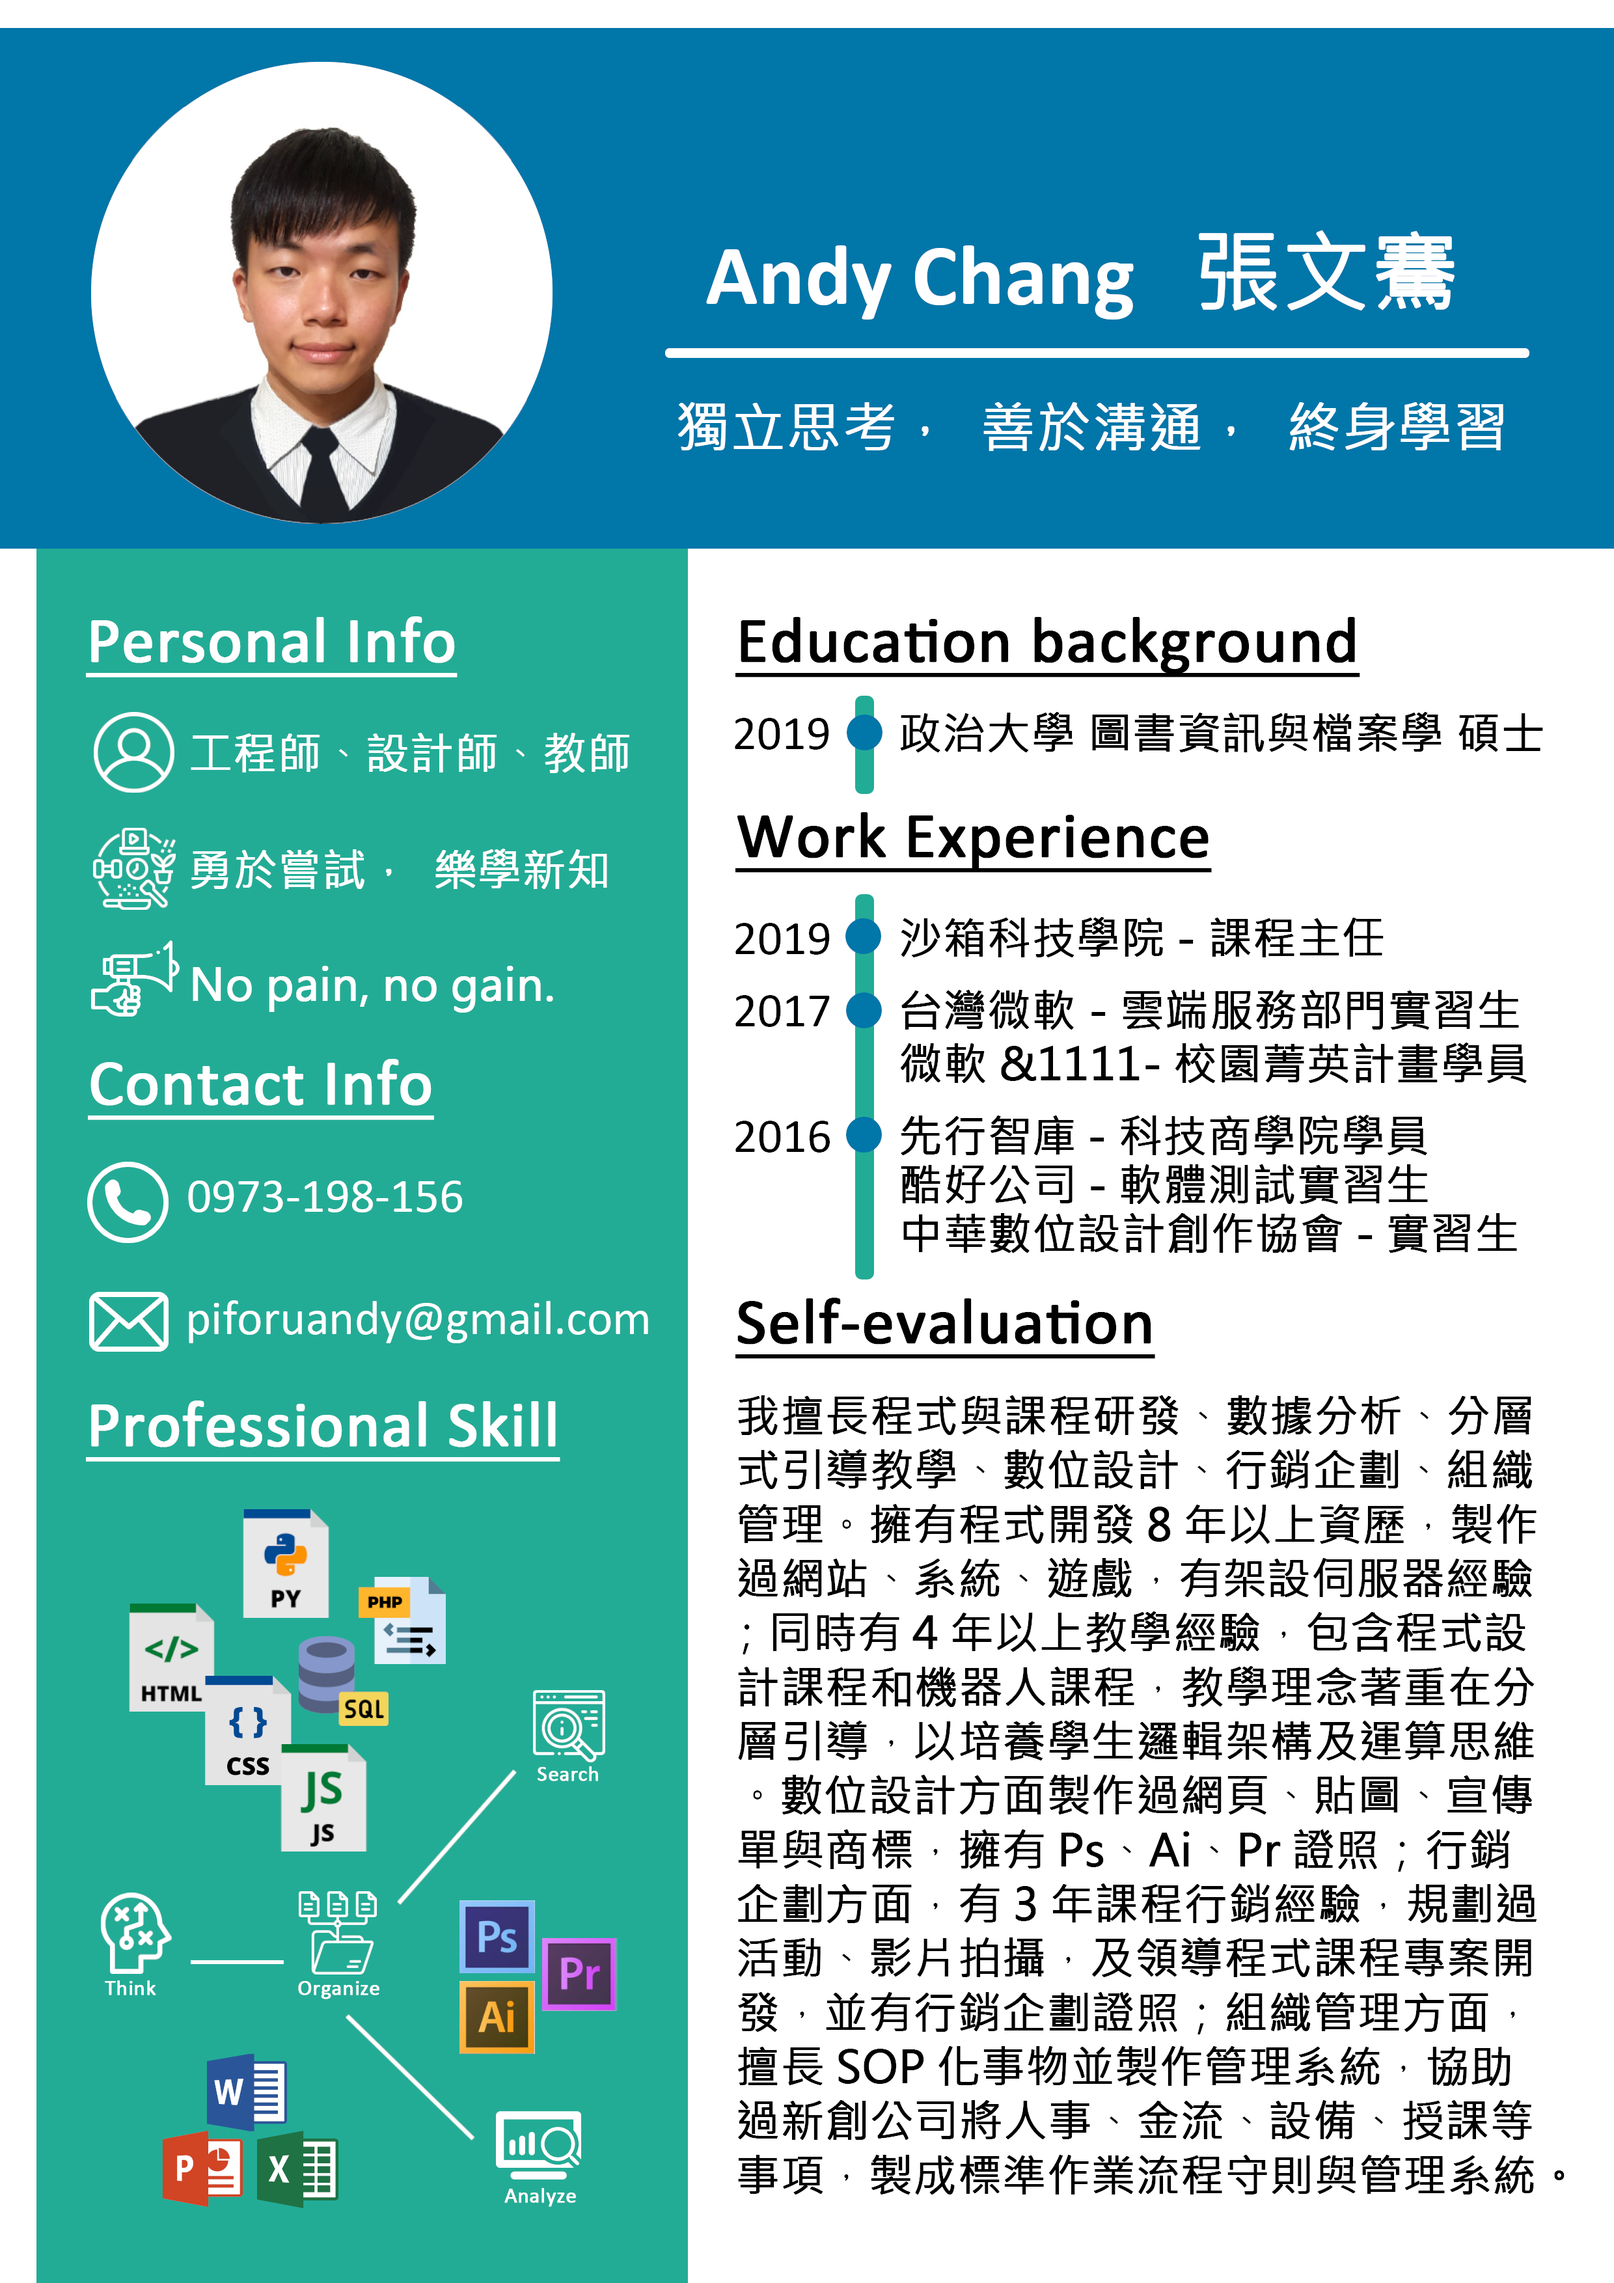
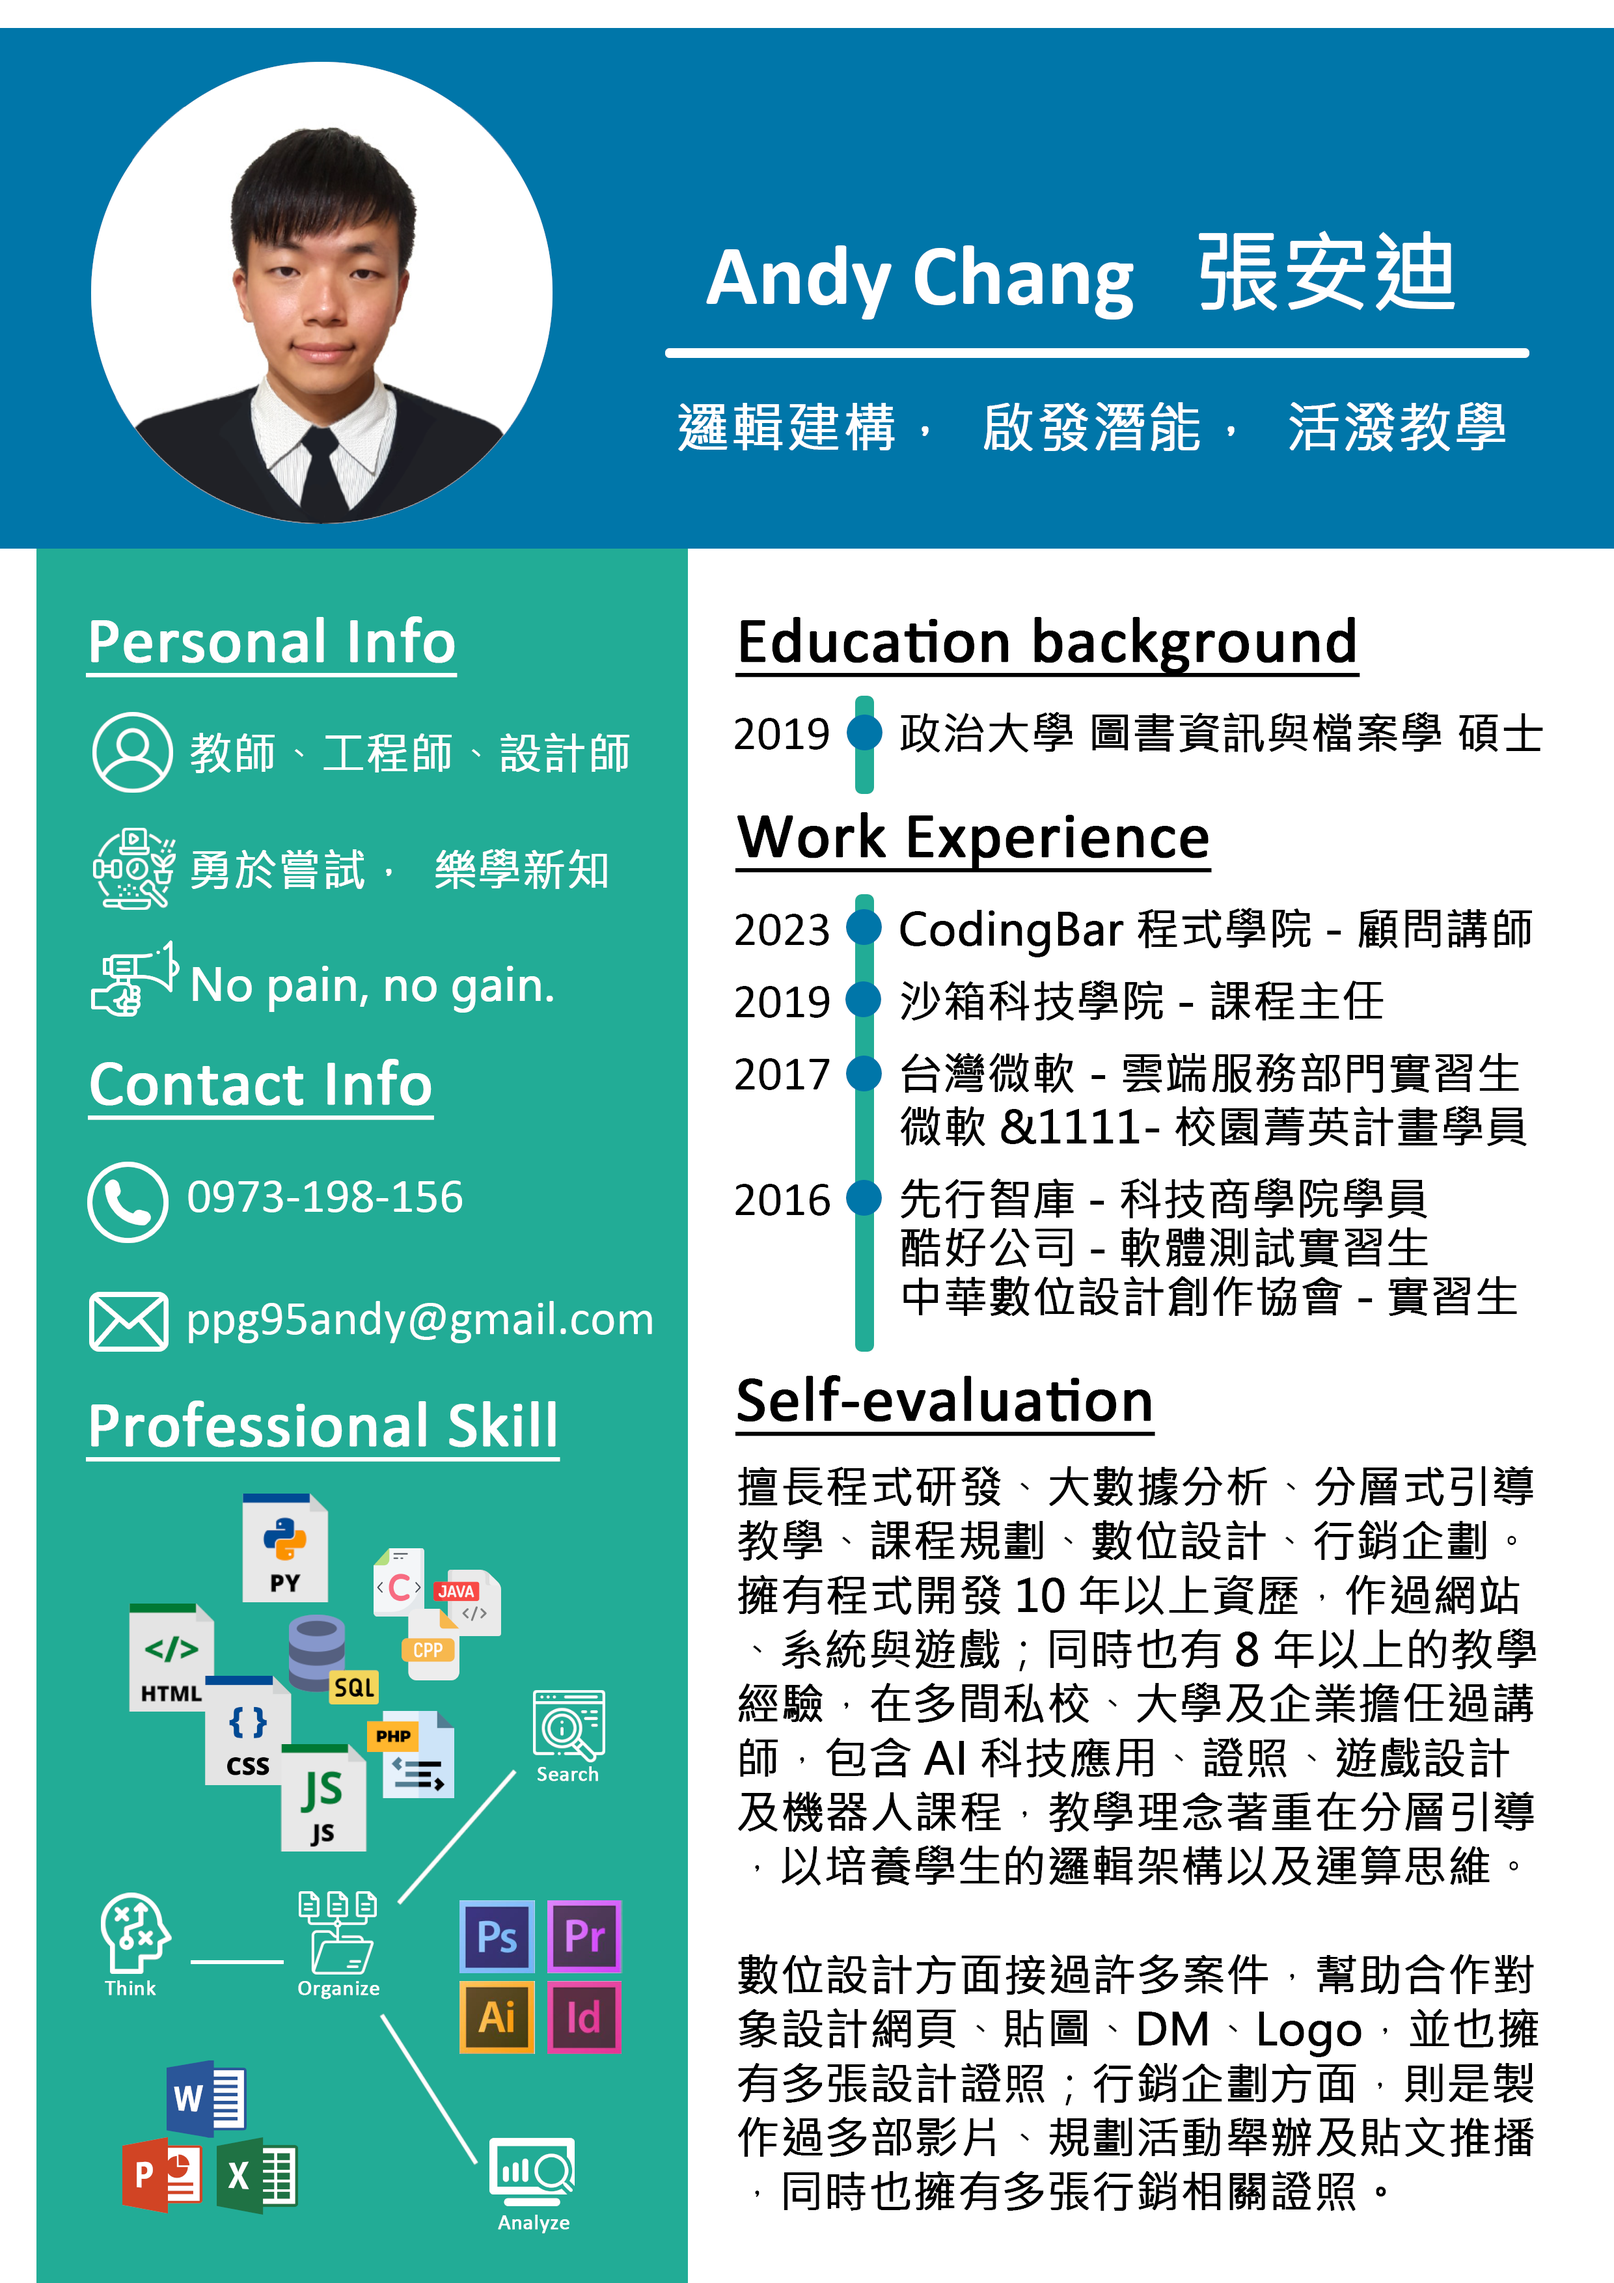
Add files via upload

diff --git a/index.html b/index.html
@@ -1,10 +1,10 @@
 <!DOCTYPE HTML>
 <html>
 	<head>
-		<title>「Andy」的數位履歷</title>
+		<title>「Andy老師」的數位履歷</title>
 		<link id="linkshow" rel="icon" type="image/png" sizes="8x8" href="images/resume.png">
 		<meta charset="utf-8" />
-		<meta name="keywords" content="「Andy老師」的數位履歷, Andy老師的數位履歷, Andy, Andy Chang, Andy Chang老師, Andy文騫, Andy文騫老師, Andy老師, 數位履歷, 文騫老師, 張文騫, 張文騫老師">
+		<meta name="keywords" content="「Andy老師」的數位履歷, Andy老師的數位履歷, Andy, Andy Chang, Andy Chang老師, Andy文騫, Andy文騫老師, Andy老師, 數位履歷, 文騫老師, 張文騫, 張文騫老師, 安迪, 安迪老師, 張安迪老師">
 		<meta name="author" content="Andy Chang">
 		<meta name="viewport" content="width=device-width, initial-scale=1" />
 		<link rel="stylesheet" href="assets/css/main.css" />		
@@ -40,7 +40,7 @@
 				j++;
 				if(j>=jsImg_2_len)  j=0;
 		}
-		var jsImg_3 = new Array("images/work/work205.jpg","images/work/work205_0.jpg","images/work/work205_1.jpg","images/work/work205_2.jpg","images/work/work205_3.jpg","images/work/work205_4.jpg");
+		var jsImg_3 = new Array("images/work/work205.jpg","images/work/work205_0.jpg","images/work/work205_1.jpg","images/work/work205_2.jpg","images/work/work205_3.jpg","images/work/work205_4.jpg","images/work/work205_5.jpg","images/work/work205_6.jpg");
 		var jsImg_3_len = jsImg_3.length;
 		var k=2;
 		setInterval("sequentialImg_3()",3500);
@@ -49,6 +49,16 @@
 			document.getElementById("my_div_3").innerHTML  = "<img src='"+jsImg_3[k]+"' width=fix height=fix>";        
 				k++;
 				if(k>=jsImg_3_len)  k=0;
+		}
+		var jsImg_4 = new Array("images/work/work206.jpg","images/work/work206_1.jpg");
+		var jsImg_4_len = jsImg_4.length;
+		var l=2;
+		setInterval("sequentialImg_4()",3500);
+		function sequentialImg_4()
+		{
+			document.getElementById("my_div_4").innerHTML  = "<img src='"+jsImg_4[l]+"' width=fix height=fix>";        
+				l++;
+				if(l>=jsImg_4_len)  l=0;
 		}
 	</script>  
 
@@ -71,7 +81,7 @@
 		<section id="banner" style = "background-image:url('images/banner.gif')">
 			<div class="inner">
 				<header>
-					<h1>Hi!<br>我是Andy</h1>
+					<h1>Hi!<br>我是Andy老師</h1>
 					<p>以下是我的數位履歷</p>
 				</header>
 				<a href="#main" class="button big alt scrolly">開始探索</a>
@@ -111,15 +121,54 @@
 						<!-- Tabbed Video Section -->
 						<div class="flex flex-tabs">
 							<ul class="tab-list">
-								<li><a href="#" data-tab="tab-1" class="active">文書處理類</a></li>
+								<li><a href="#" data-tab="tab-0" class="active">程式語言類</a></li>
+								<li><a href="#" data-tab="tab-1">文書處理類</a></li>
 								<li><a href="#" data-tab="tab-2">影像設計類</a></li>
 								<li><a href="#" data-tab="tab-3">行銷管理類</a></li>
 								<li><a href="#" data-tab="tab-4">戶外休閒類</a></li>
-                                <li><a href="#" data-tab="tab-5">準備考取類</a></li>
 							</ul>
 							<div class="tabs">
+								<!-- Tab 0 -->
+								<div class="tab tab-0 flex flex-2 active">
+									<!-- Video Thumbnail -->
+									<div class="video col">
+										<div class="image fit">
+											<img src="images/license/license001.png" alt="CSFC Python 程式語言檢定 初級"/>
+											<p class="caption" style="color:#ffffff">CSFC Python 程式語言檢定 初級</p>
+											<div class="arrow">
+											</div>
+										</div>
+									</div>
+									<!-- Video Thumbnail -->
+									<div class="video col">
+										<div class="image fit">
+											<img src="images/license/license002.png" alt="CSFC Python 程式語言檢定 進階級"/>
+											<p class="caption" style="color:#ffffff">CSFC Python 程式語言檢定 進階級</p>
+											<div class="arrow">
+											</div>
+										</div>
+									</div>
+									<!-- Video Thumbnail -->
+									<div class="video col">
+										<div class="image fit">
+											<img src="images/license/license003.PNG" alt="CSFC C++ 程式語言檢定 初級"/>
+											<p class="caption" style="color:#ffffff">CSFC C++ 程式語言檢定 初級</p>
+											<div class="arrow">
+											</div>
+										</div>
+									</div>
+									<!-- Video Thumbnail -->
+									<div class="video col">
+										<div class="image fit">
+											<img src="images/license/license004.png" alt="CSFC C++ 程式語言檢定 進階級"/>
+											<p class="caption" style="color:#ffffff">CSFC C++ 程式語言檢定 進階級</p>
+											<div class="arrow">
+											</div>
+										</div>
+									</div>
+								</div>
 								<!-- Tab 1 -->
-								<div class="tab tab-1 flex flex-2 active">
+								<div class="tab tab-1 flex flex-2">
 									<!-- Video Thumbnail -->
 									<div class="video col">
 										<div class="image fit">
@@ -247,15 +296,6 @@
 										</div>
 									</div>
 								</div>
-								<!-- Tab 5 -->
-								<div class="tab tab-5 flex flex-2">
-									<!-- Video Thumbnail -->
-									<div class="video col">
-										<div class="image fit">
-											<p class="caption">APCS大學程式設計先修檢測</p>
-										</div>
-									</div>
-								</div>
 							</div>
 						</div>
 					</div>
@@ -304,9 +344,10 @@
 									</div>
 									<p class="caption">
 									<font color="#ffffff">-----工作歷程-----</font><br/>
+									<font color="#ffffff">2023/04~</font> <br/>CodingBar程式學院<br/>顧問講師<br/>
 									<font color="#ffffff">2019/09~</font> <br/>沙箱科技學院<br/>課程主任暨資深講師<br/>
 									<font color="#ffffff">-----實習歷程-----</font><br/> 
-									<font color="#ffffff">2017/09~2019/06</font> <br/>政治大學<br/>多項計畫助理、檔案管理專員<br/> 
+									<font color="#ffffff">2017/09~2019/06</font> <br/>政治大學<br/>計畫助理、檔管專員<br/> 
 									<font color="#ffffff">2017/06~2017/10</font> <br/>台灣微軟公司<br/>雲端服務部門實習生<br/> 					
 									<font color="#ffffff">2016/11~2017/03</font> <br/>酷好股份有限公司<br/>軟體測試實習生<br/> 
 									<font color="#ffffff">2016/07~2016/08</font> <br/>中華數位設計創作協會<br/>實習生<br/> 
@@ -458,6 +499,17 @@
 										</div>
 										<a href="https://piteacher.github.io/S2_Flappy_Butterfly/" title="點擊瀏覽網站" class="link" target="_blank" ></a>
 									</div>
+									<!-- Video Thumbnail -->
+									<div class="video col">
+										<div class="image fit">
+											<img src="images/work/work113.jpg" alt="星遊探險隊遊戲" />
+											<p class="caption" style="color:#ffffff">[遊戲]星遊探險隊</p>
+											<p class="caption">HTML+JavaScript獨創方法製作之經典太空船射擊遊戲，設計亮點為擁有不同攻擊模式的敵人與武器系統。</p>
+											<div class="arrow">
+											</div>
+										</div>
+										<a href="https://piteacher.github.io/V2_Interstellar_Adventure/" title="點擊瀏覽網站" class="link" target="_blank" ></a>
+									</div>
 								</div>
 								<!-- Tab 2 -->
 								<div class="tab tab-2 flex flex-2">
@@ -486,6 +538,28 @@
 									<!-- Video Thumbnail -->
 									<div class="video col">
 										<div class="image fit">
+											<img src="images/work/work210.jpg" alt="我是自信兔!" />
+											<p class="caption"  style="color:#ffffff">[靜態貼圖]我是自信兔!</p>
+											<p class="caption">透過AI繪圖結合Canva應用，在短短一天內完成製作並上架的貼圖系列。</p>
+											<div class="arrow">
+											</div>
+										</div>
+										<a href="https://store.line.me/stickershop/product/24710002/zh-Hant" title="點擊連結至Line Store" class="link" target="_blank" ></a>
+									</div>
+									<!-- Video Thumbnail -->
+									<div class="video col">
+										<div class="image fit">
+											<img src="images/work/work207.jpg" alt="機器人課程DM與課程開發示意圖" />
+											<p class="caption"  style="color:#ffffff">[數位設計]機器人課程DM與課程開發示意圖</p>
+											<p class="caption">於沙箱科技學院任職時，所設計之機器人課程DM與課程開發示意圖。此外同時也為機器人、程式設計課程開發多項長短期教案，並為公司建立起完整培訓與管理系統。</p>
+											<div class="arrow">
+											</div>
+										</div>
+										<a href="https://imgur.com/zdf2sfS" title="點擊連結至imgur觀看大圖" class="link" target="_blank" ></a>
+									</div>
+									<!-- Video Thumbnail -->
+									<div class="video col">
+										<div class="image fit">
 											<img src="images/work/work208.jpg" alt="資訊教育課程DM與獎章" />
 											<p class="caption"  style="color:#ffffff">[數位設計]資訊教育課程DM與獎章</p>
 											<p class="caption">為𝝿發王潛能開發學院，所設計之資訊教育課程DM與獎章。此外還協助開發多項資訊教育課程程式、教案與簡報。</p>
@@ -493,17 +567,6 @@
 											</div>
 										</div>
 										<a href="https://linevoom.line.me/user/_ddS6o1AhWCkzgBIjJD31XUGXk1aQAF7y_ylh2sw?utm_medium=windows&utm_source=desktop&utm_campaign=OA_Profile" title="點擊連結至𝝿發王潛能開發學院Line官方網站" class="link" target="_blank" ></a>
-									</div>
-									<!-- Video Thumbnail -->
-									<div class="video col">
-										<div class="image fit">
-											<img src="images/work/work207.png" alt="機器人課程DM與設備擺設示意圖" />
-											<p class="caption"  style="color:#ffffff">[數位設計]機器人課程DM與設備擺設示意圖</p>
-											<p class="caption">於沙箱科技學院任職時，所設計之機器人課程DM與設備擺設示意圖。此外同時也為機器人、程式設計課程開發多項長短期教案，並為公司建立起完整培訓與管理系統。</p>
-											<div class="arrow">
-											</div>
-										</div>
-										<a href="https://imgur.com/zdf2sfS" title="點擊連結至imgur觀看大圖" class="link" target="_blank" ></a>
 									</div>
 									<!-- Video Thumbnail -->
 									<div class="video col">
@@ -519,8 +582,8 @@
 									<!-- Video Thumbnail -->
 									<div class="video col">
 										<div class="image fit">
-											<img src="images/work/work206.jpg" alt="兔寶剪髮設計" />
-											<p class="caption"  style="color:#ffffff">[數位設計]兔寶剪髮Logo+文字</p>
+											<div id="my_div_4" ><img src="images/work/work206.jpg" alt="兔寶剪髮設計" /></div>
+											<p class="caption"  style="color:#ffffff">[數位設計]兔寶剪髮</p>
 											<p class="caption">接案設計其中一家公司的成果作品，透過兔子的特質加上暖色調，呈現出溫馨且專業的兒童剪髮形象。</p>
 											<div class="arrow">
 											</div>
@@ -608,6 +671,19 @@
 									<!-- Video Thumbnail -->
 									<div class="video col">
 										<div class="image fit">
+											<img src="images/work/work404.png" alt="玩程式越野動力車成果" />
+											<div class="arrow"> 
+												<div class="icon fa-play">
+												</div>      
+											</div>
+										</div>                                           
+										<p class="caption"  style="color:#ffffff">[課程成果影片]玩程式越野動力車成果影片</p>
+										<p class="caption">透過素材剪輯，來展示學生在越野動力車課程中的學習成果。</p>
+										<a href="https://youtu.be/m0s96ITOZbw" title="點擊觀看影片" class="link" target="_blank" ></a>
+									</div>	
+									<!-- Video Thumbnail -->
+									<div class="video col">
+										<div class="image fit">
 											<img src="images/work/work403.JPG" alt="𝝿發王資訊課程介紹影片" />
 											<div class="arrow"> 
 												<div class="icon fa-play">
@@ -659,7 +735,7 @@
 					<!-- <ul class="icons">
 						<li><a href="https://www.facebook.com/profile.php?id=100006624396431" class="icon fa-facebook" target="_blank" ><span class="label">Facebook</span></a></li>
 					</ul> -->
-					<a>© Andy Chang 張文騫 2022</a>
+					<a>© Andy Chang 張安迪 2024</a>
 				</div>
 			</div>
 		</footer>
